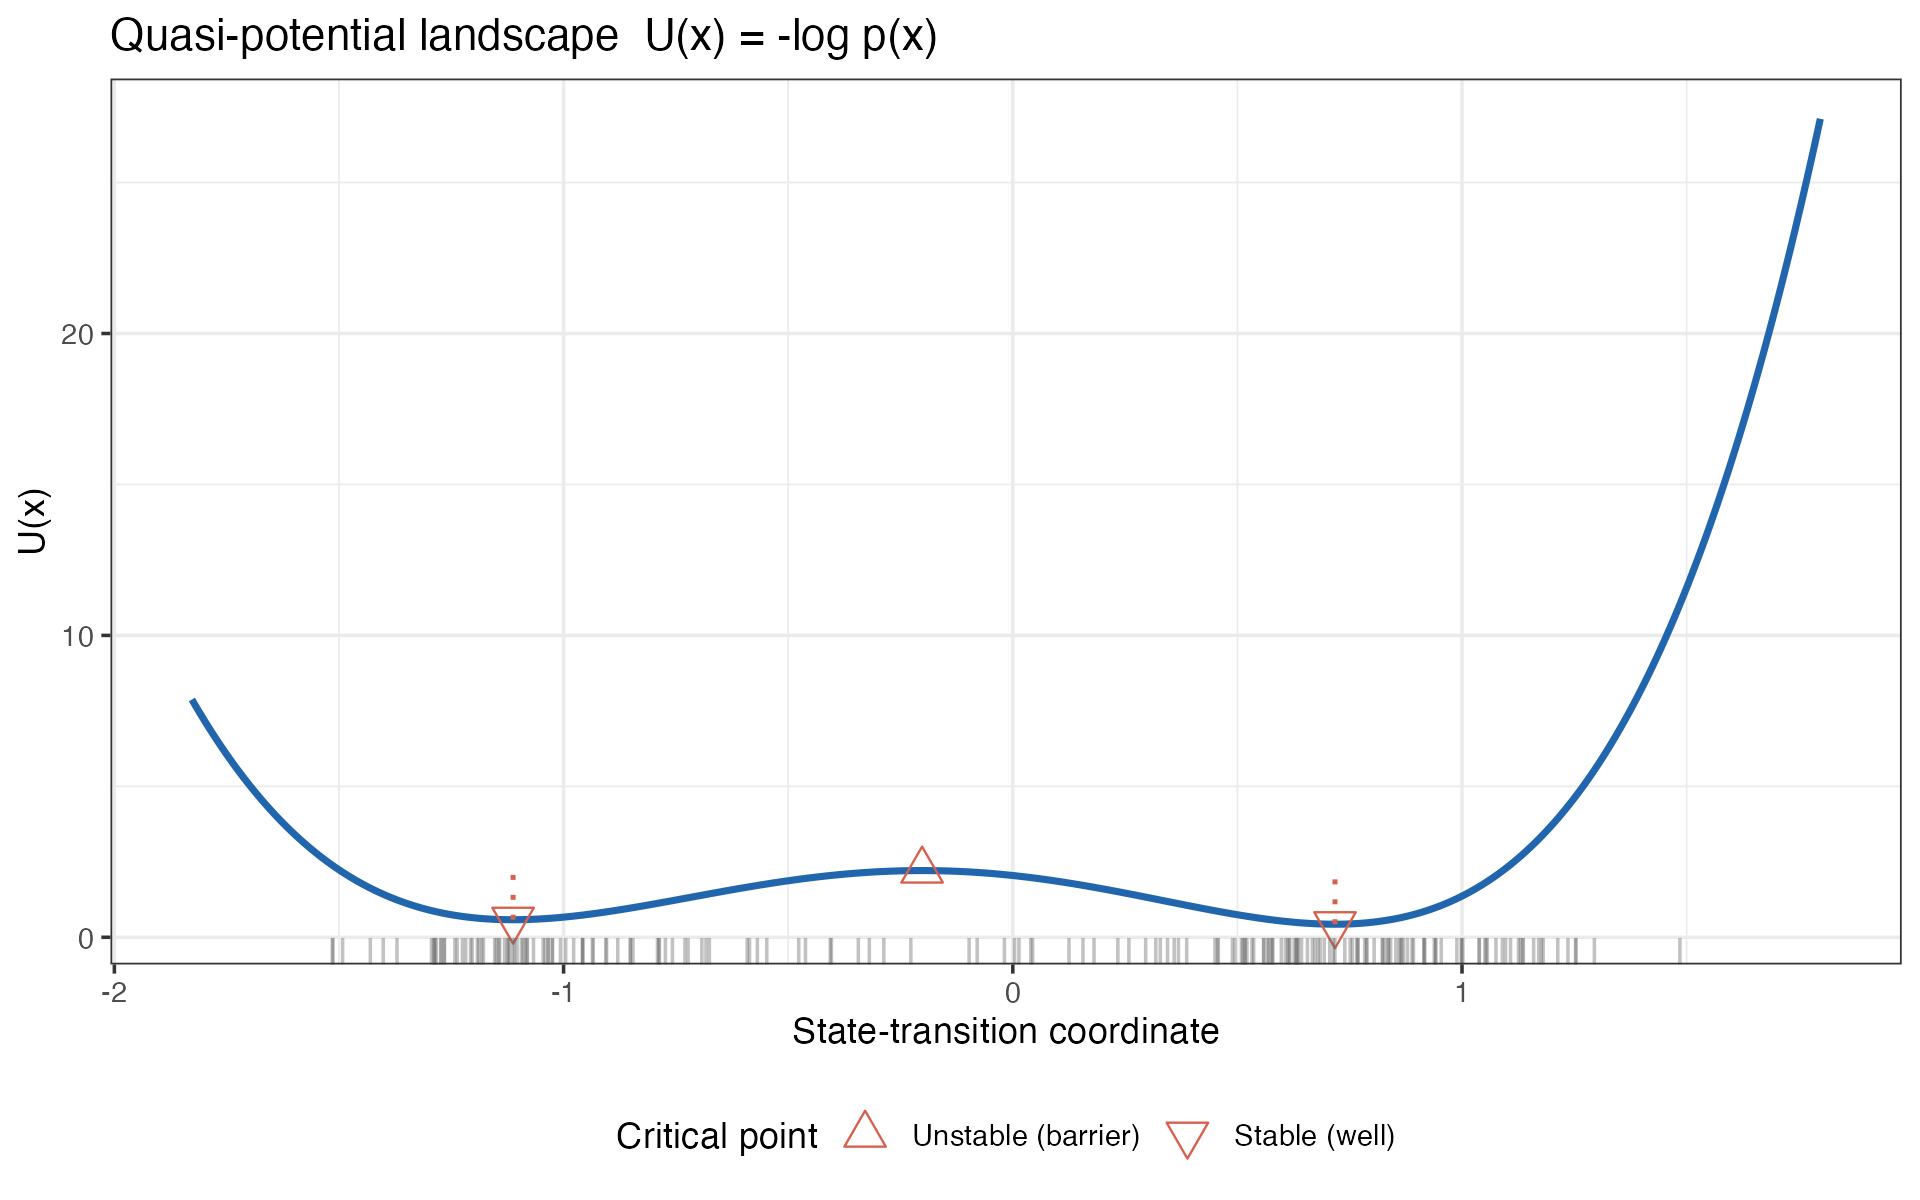
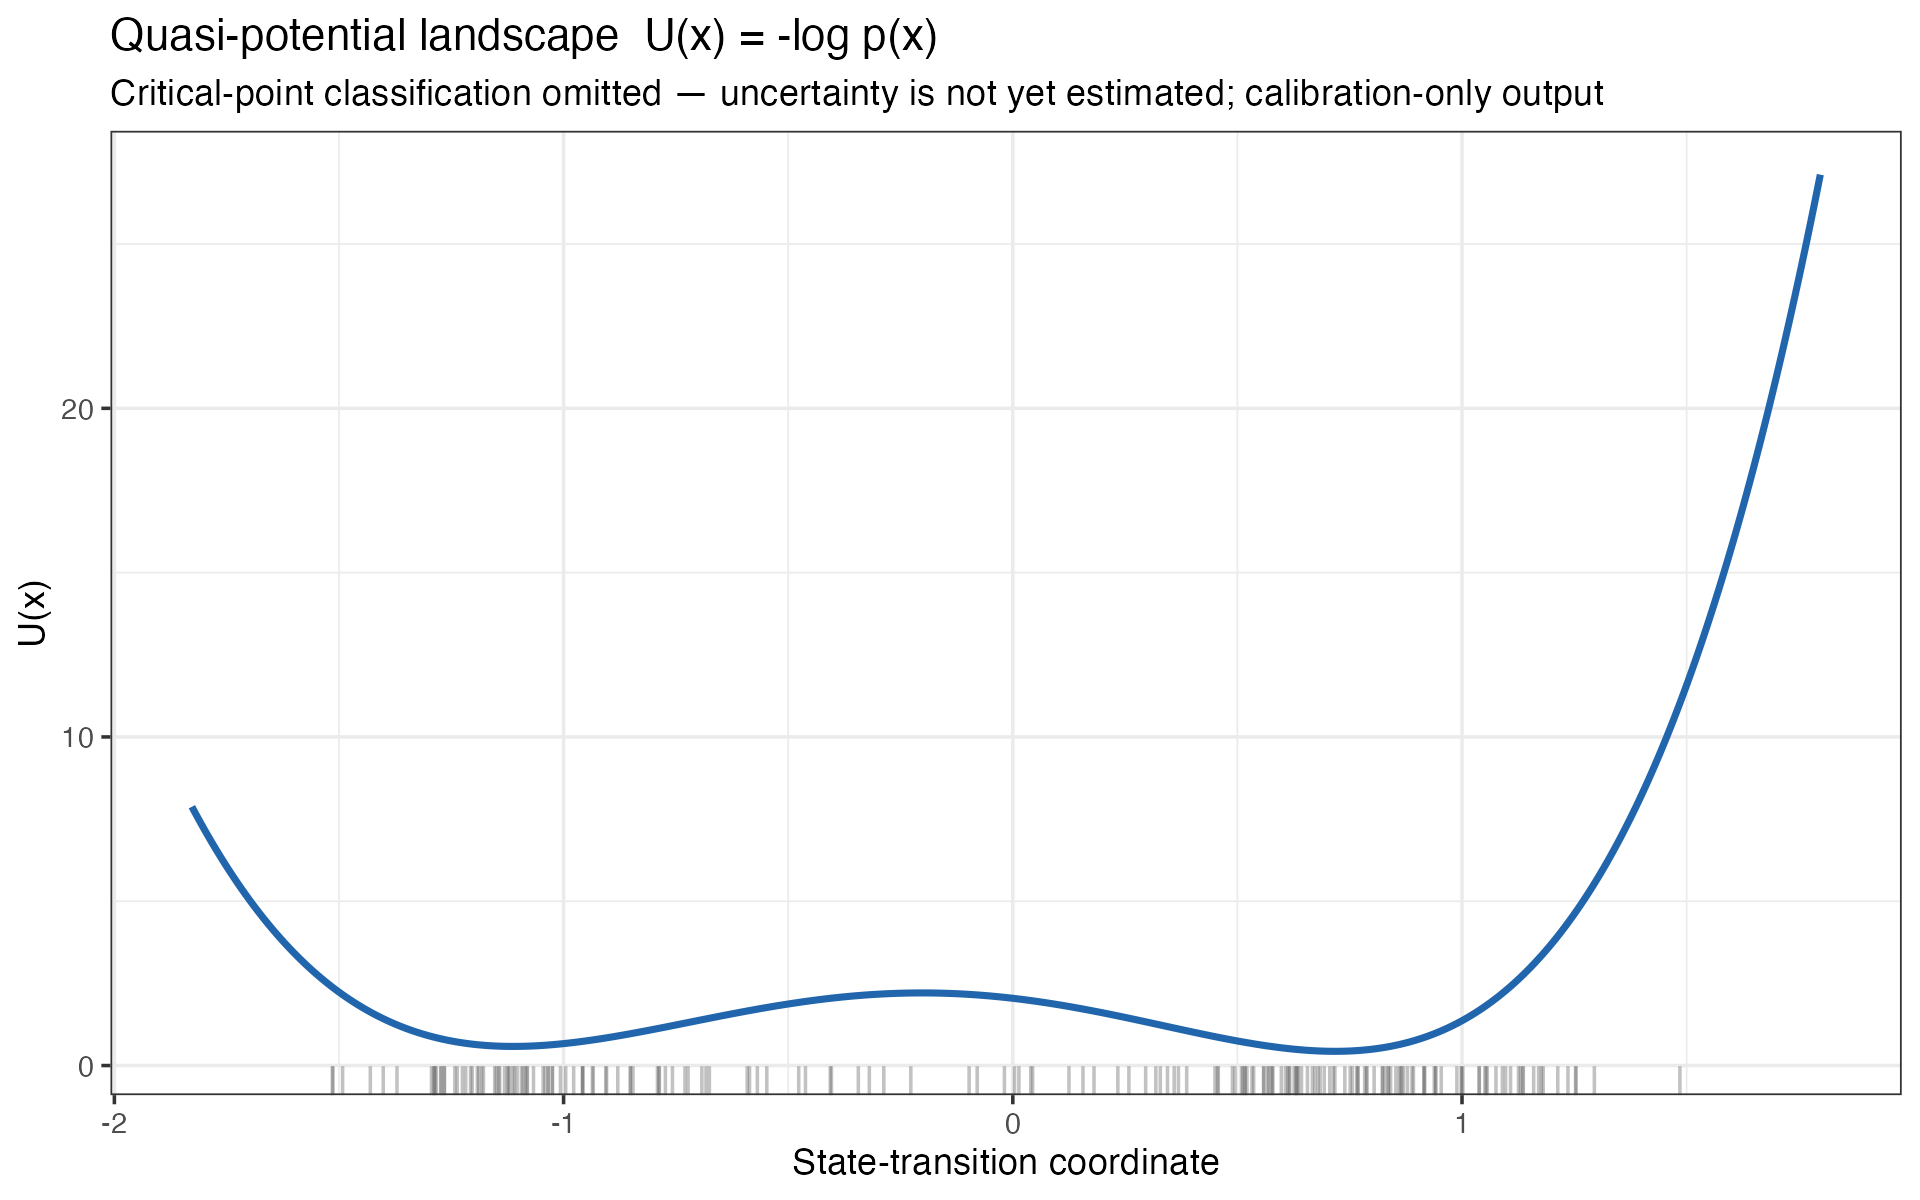
Address #68 two-axis review findings

diff --git a/scripts/tests/test_check_figure_review.py b/scripts/tests/test_check_figure_review.py
@@ -3,6 +3,7 @@
 
 from __future__ import annotations
 
+import shutil
 import subprocess
 import sys
 import tempfile
@@ -25,6 +26,7 @@ REQUIRED_PROOF = """\
 **Cold-reader conclusion:** K=1 now runs without a duplicated-omic-layer workaround.
 **Reproduction:** Run `Rscript scripts/render-proof.R`.
 **Claim status:** Implementation proof only; calibration-only and non-evidentiary.
+**Artifact:** See the before/after table in the Visual review section.
 
 ### Current documentation
 
@@ -32,6 +34,12 @@ REQUIRED_PROOF = """\
 - [ ] Unaffected
 
 **Documentation reference or rationale:** Development log K=1 section.
+
+## Visual review
+
+| Before | After |
+|---|---|
+| Duplicated omic layer | Registered SVD |
 """
 
 
@@ -96,6 +104,32 @@ class VisualProofCheckerCliTest(unittest.TestCase):
             cwd=self.repo, capture_output=True, text=True
         )
 
+    def test_rejects_malformed_template_without_visual_heading(self) -> None:
+        self._commit_change(current_docs=True)
+        result = self._run_checker(REQUIRED_PROOF.replace(
+            "## Visual landing proof", "## Landing notes"
+        ))
+
+        self.assertNotEqual(result.returncode, 0)
+        self.assertIn("heading is required", result.stderr)
+
+    def test_fails_safe_when_no_comparison_ref_is_available(self) -> None:
+        self._git("switch", "--orphan", "isolated")
+        for child in self.repo.iterdir():
+            if child.name != ".git":
+                if child.is_dir():
+                    shutil.rmtree(child)
+                else:
+                    child.unlink()
+        (self.repo / "isolated.txt").write_text("only commit\n", encoding="utf-8")
+        self._git("add", "isolated.txt")
+        self._git("commit", "-m", "isolated root")
+        self._git("branch", "-D", "main")
+        result = self._run_checker(VALID_EXEMPTION)
+
+        self.assertNotEqual(result.returncode, 0)
+        self.assertIn("cannot determine changed files", result.stderr)
+
     def test_requires_exactly_one_proof_classification(self) -> None:
         self._commit_change()
         neither = self._run_checker("## Visual landing proof\n")
@@ -109,7 +143,7 @@ class VisualProofCheckerCliTest(unittest.TestCase):
         self.assertIn("exactly one", both.stderr)
 
     def test_rejects_generic_exemption_rationale(self) -> None:
-        self._commit_change()
+        self._commit_path("tests/testthat/helper-fixture.R")
         body = VALID_EXEMPTION.replace(
             "This changes test fixture naming without changing any public, scientific, data, plotting, or developer-workflow behavior.",
             "N/A"
@@ -142,14 +176,21 @@ class VisualProofCheckerCliTest(unittest.TestCase):
         result = self._run_checker(VALID_EXEMPTION)
 
         self.assertNotEqual(result.returncode, 0)
-        self.assertIn("obviously public", result.stderr)
+        self.assertIn("obviously qualifying", result.stderr)
+
+    def test_rejects_exemption_for_r_scientific_or_public_behavior(self) -> None:
+        self._commit_path("R/public-api.R", "public_api <- function() 'changed'\n")
+        result = self._run_checker(VALID_EXEMPTION)
+
+        self.assertNotEqual(result.returncode, 0)
+        self.assertIn("obviously qualifying", result.stderr)
 
     def test_rejects_exemption_for_prepared_data_workflow(self) -> None:
         self._commit_path("data-raw/prepare-cohort.R")
         result = self._run_checker(VALID_EXEMPTION)
 
         self.assertNotEqual(result.returncode, 0)
-        self.assertIn("obviously public", result.stderr)
+        self.assertIn("obviously qualifying", result.stderr)
 
     def test_accepts_research_decision_only_exemption(self) -> None:
         self._commit_path("decisions/9999-proposed-research.md")
@@ -174,6 +215,30 @@ class VisualProofCheckerCliTest(unittest.TestCase):
         result = self._run_checker(body)
 
         self.assertEqual(result.returncode, 0, result.stderr)
+
+    def test_rejects_prose_only_required_proof_without_artifact(self) -> None:
+        self._commit_change(current_docs=True)
+        body = REQUIRED_PROOF.replace(
+            "| Before | After |\n|---|---|\n| Duplicated omic layer | Registered SVD |",
+            "The implementation changed as described above."
+        )
+        result = self._run_checker(body)
+
+        self.assertNotEqual(result.returncode, 0)
+        self.assertIn("inspectable artifact", result.stderr)
+
+    def test_requires_current_docs_for_r_behavior_change(self) -> None:
+        self._commit_path("R/public-api.R", "public_api <- function() 'changed'\n")
+        body = REQUIRED_PROOF.replace("- [x] Updated", "- [ ] Updated").replace(
+            "- [ ] Unaffected", "- [x] Unaffected"
+        ).replace(
+            "Development log K=1 section.",
+            "The public workflow is claimed to be unaffected despite the R behavior change."
+        )
+        result = self._run_checker(body)
+
+        self.assertNotEqual(result.returncode, 0)
+        self.assertIn("requires current documentation", result.stderr)
 
     def test_rejects_template_comments_as_required_proof(self) -> None:
         self._commit_change(current_docs=True)
@@ -211,7 +276,7 @@ class VisualProofCheckerCliTest(unittest.TestCase):
         self.assertIn("Visual landing proof packet accepted", result.stdout)
 
     def test_accepts_complete_proof_when_docs_are_substantively_unaffected(self) -> None:
-        self._commit_change(current_docs=False)
+        self._commit_path("scripts/internal-status.py")
         body = REQUIRED_PROOF.replace("- [x] Updated", "- [ ] Updated").replace(
             "- [ ] Unaffected", "- [x] Unaffected"
         ).replace(
@@ -229,7 +294,7 @@ class VisualProofCheckerCliTest(unittest.TestCase):
         )
 
         self.assertNotEqual(result.returncode, 0)
-        self.assertIn("exactly one", result.stderr)
+        self.assertIn("heading is required", result.stderr)
 
 
 if __name__ == "__main__":

diff --git a/scripts/check-figure-review.py b/scripts/check-figure-review.py
@@ -25,8 +25,16 @@ PLACEHOLDERS = {
 }
 CURRENT_DOCUMENTATION_PREFIXES = ("vignettes/",)
 CURRENT_DOCUMENTATION_FILES = {"README.md"}
-OBVIOUSLY_PUBLIC_PREFIXES = ("data-raw/", "vignettes/")
-OBVIOUSLY_PUBLIC_FILES = {"DESCRIPTION", "NAMESPACE", "README.md"}
+OBVIOUSLY_QUALIFYING_PREFIXES = (
+    ".github/", "R/", "data-raw/", "docs/agents/", "hooks/", "man/",
+    "scripts/", "vignettes/",
+)
+OBVIOUSLY_QUALIFYING_FILES = {
+    "DESCRIPTION", "NAMESPACE", "README.md", "_pkgdown.yml",
+    "install-hooks.sh",
+}
+CURRENT_DOCS_REQUIRED_PREFIXES = ("R/", "data-raw/")
+CURRENT_DOCS_REQUIRED_FILES = {"DESCRIPTION", "NAMESPACE"}
 
 
 def changed_files() -> list[str]:
@@ -86,20 +94,39 @@ def validate_exemption(body: str, files: list[str]) -> int:
     if category not in ALLOWED_EXEMPTION_CATEGORIES:
         allowed = ", ".join(sorted(ALLOWED_EXEMPTION_CATEGORIES))
         return fail(f"Exemption category must be one of: {allowed}.")
-    obvious_public = [
+    obviously_qualifying = [
         path for path in files
-        if path in OBVIOUSLY_PUBLIC_FILES
-        or path.startswith(OBVIOUSLY_PUBLIC_PREFIXES)
+        if path in OBVIOUSLY_QUALIFYING_FILES
+        or path.startswith(OBVIOUSLY_QUALIFYING_PREFIXES)
     ]
-    if obvious_public:
+    if obviously_qualifying:
         return fail(
-            "An exemption cannot cover an obviously public change: "
-            + ", ".join(obvious_public)
+            "An exemption cannot cover an obviously qualifying change: "
+            + ", ".join(obviously_qualifying)
         )
     if not substantive(rationale, minimum=24):
         return fail("A substantive exemption rationale is required; generic N/A is invalid.")
     print(f"Visual landing proof exemption accepted ({category}).")
     return 0
+
+
+def visual_review_has_artifact(body: str) -> bool:
+    section_match = re.search(
+        r"^## Visual review\s*$\n(.*?)(?=^##\s|\Z)",
+        body,
+        flags=re.MULTILINE | re.DOTALL,
+    )
+    if not section_match:
+        return False
+    section = section_match.group(1)
+    has_image = re.search(r"!\[[^\]]+\]\([^)]+\)", section) is not None
+    has_table = re.search(
+        r"^\s*\|.+\|\s*$\n^\s*\|(?:\s*:?-+:?\s*\|)+\s*$",
+        section,
+        flags=re.MULTILINE,
+    ) is not None
+    has_rendered_output = re.search(r"```[^\n]*\n.+?```", section, re.DOTALL) is not None
+    return has_image or has_table or has_rendered_output
 
 
 def validate_required_proof(body: str, files: list[str]) -> int:
@@ -110,6 +137,7 @@ def validate_required_proof(body: str, files: list[str]) -> int:
         "Cold-reader conclusion",
         "Reproduction",
         "Claim status",
+        "Artifact",
     )
     for label in required_fields:
         if not substantive(field(body, label)):
@@ -134,6 +162,20 @@ def validate_required_proof(body: str, files: list[str]) -> int:
             "Current documentation is declared updated, but no README or vignette change "
             "exists in the current documentation diff."
         )
+    docs_required = any(
+        path in CURRENT_DOCS_REQUIRED_FILES
+        or path.startswith(CURRENT_DOCS_REQUIRED_PREFIXES)
+        for path in files
+    )
+    if unaffected and docs_required:
+        return fail(
+            "An R, prepared-data, DESCRIPTION, or NAMESPACE change requires current documentation."
+        )
+    if not visual_review_has_artifact(body):
+        return fail(
+            "The Visual review section must contain an inspectable artifact: "
+            "a Markdown image, table, or fenced rendered output."
+        )
 
     print("Visual landing proof packet accepted.")
     return 0
@@ -148,6 +190,8 @@ def main() -> int:
         return fail(f"PR body file not found: {args.pr_body_file}")
 
     body = args.pr_body_file.read_text(encoding="utf-8")
+    if re.search(r"^## Visual landing proof\s*$", body, re.MULTILINE) is None:
+        return fail("A `## Visual landing proof` heading is required.")
     proof_required = checked(body, "Proof required")
     exempt = checked(body, "Exempt")
     if proof_required == exempt:

diff --git a/.github/landing-proof/issue-68/README.md b/.github/landing-proof/issue-68/README.md
@@ -1,0 +1,16 @@
+# Issue #68 checker before/after proof
+
+`checker-before-after.txt` records the same public behavior change against a
+one-file `R/` diff and a PR body with no landing-proof declaration:
+
+- the base checker exits 0 because no vignette changed;
+- the new checker exits 1 because every PR must classify its visual landing
+  proof.
+
+Reproduce by checking the base script out from `ad77a2a`, creating a temporary
+Git repository with a `main` commit and an `R/` change on a feature branch, and
+running both checker versions against a PR body containing only `## Summary`.
+
+The CLI contract tests additionally cover artifact presence, required current
+documentation, obvious qualifying surfaces, exemptions, malformed templates,
+placeholder bypasses, and unavailable comparison refs.

diff --git a/.github/landing-proof/issue-50/README.md b/.github/landing-proof/issue-50/README.md
@@ -7,10 +7,12 @@ These two images are the first reference proof packet under issue #68 and ADR
 Rscript -e 'pkgdown::build_site()'
 ```
 
-- `empirical-density.png` is the descriptive evidence layer: the empirical
-  registered-SVD coordinate density.
+- `empirical-density.png` is the descriptive evidence layer: the planted
+  cross-sectional coordinate density supplied to the synthetic expression
+  control through public `colData`.
 - `quasi-potential.png` is the hypothesis-conditioned interpretation layer: the
-  fitted calibration-only quasi-potential and critical points.
+  fitted calibration-only quasi-potential. Critical-point classification is
+  deliberately omitted because uncertainty is not yet estimated.
 
 They demonstrate that the K=1 implementation visibly landed. They are not
 immutable acceptance evidence; #51 and #67 remain the K=1 acceptance gates.

diff --git a/.github/pull_request_template.md b/.github/pull_request_template.md
@@ -25,6 +25,8 @@
 
 **Claim status:** <!-- implementation proof | exploratory | calibration-only | accepted evidence, etc. -->
 
+**Artifact:** <!-- Point to the Markdown image, table, or fenced rendered output in Visual review. -->
+
 ### Current documentation
 
 <!-- Select exactly one when proof is required. -->